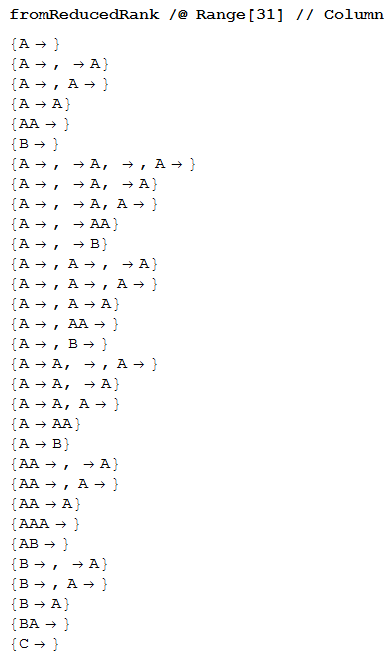
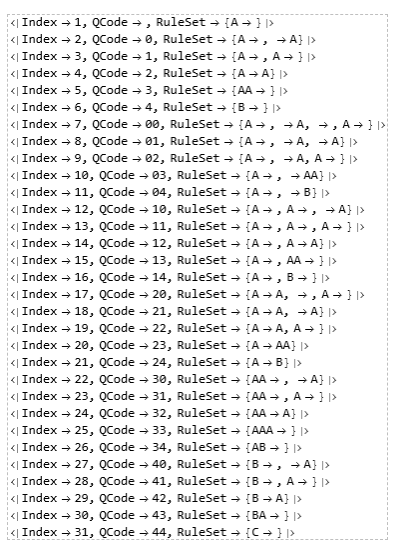
Edited Stuff

diff --git a/pages/FAQs/SSSenum/index.html b/pages/FAQs/SSSenum/index.html
@@ -1,9 +1,11 @@
 <h1>FAQ: SSS enumeration</h1>
-<h2>Origional Sessie Enumeration</h2>
+<h2>Original Sessie Enumeration</h2>
 <p>The first attempt to enumerate sessies was published <a href=http://www.mathematica-journal.com/2011/05/indexing-strings-and-rulesets/ >here</a> This has now been replaced by enumerations allowing better predictions based on simpler mathematical relationships. </p>
-<p>Since then we have simplified and generalized the enumeration algorithm (the subject of a paper by Caviness, Case, Morrow & Kratzke)(2020).  A new fully general algorithm based on base-5 operation codes was used in the code everywhere for several years. </p>
+<h2>Updated Sessie Enumeration</h2>
+<p>Since then we have simplified and generalized the enumeration algorithm (the subject of a paper by <a href=https://www.complex-systems.com/abstracts/v29_i04_a04>Caviness, Case, Morrow & Kratzke</a>)(2020).  A new fully general algorithm based on base-5 operation codes was used in the code everywhere for several years. </p>
 <p>For example, $fromGeneralizedRank[n]$ gives the n-th ruleset in the generalized quinary enumeration.  The first 62 rulesets are listed below.  If we define the weight of a ruleset as the sum of the individual letters, with A=1, B=2, C=3, …, it is clear that in this list, weight 1 rulesets (containing only 1 letter, an A) all appear before weight 2 rulesets (containing either 2 As or 1 B), and weight 2 rulesets before those of weight 3, etc. </p>
-<p>$fromGeneralizedRankShowSteps /@ Range[62]$ //Column (* display steps in creating rulesets *) </p>
+<!-- <p>$fromGeneralizedRankShowSteps /@ Range[62]$ //Column (* display steps in creating rulesets *) </p> -->
+<p>Note that the first digit is binary, all additional digits are quinary (base-5):</p>
 <img src="/pages/FAQs/SSSenum/Pictures/e1.png" alt="Example 1">
 <p>Within any given weight, advancing through the enumeration tends to compact the weight into fewer characters, moving it gradually towards the left.  So the most spread out ruleset of weight 3, {"A"->"", ""->"A",""->"","A"->""} is the first of this weight in the list, {"A"->"",""->"B"} appears further down, and {"C"->""} is the last of this weight, with the entire weight compacted to the left.</p>
 <p>Note:  The "most spread out" rulesets have exactly 2 empty strings between single "A" strings, since we want to include the possibility of deletion rules (where the replacement string is "") and insertion rules (where the search string is ""), and the possibility that an insertion might follow right after a deletion, thus putting 2 empty strings in sequence.  E.g., {"A"->"",""->"B"}.  But we will never need more than 2 consecutive empty strings, and this algorithm also produces ""->"" rules.  More on that problem below. </p>
@@ -30,7 +32,7 @@
         <td>(* if solo identity rules are treated separately *)</td>
     </tr>
     <tr>
-        <td>$TestForInitialSubstringRule$</td>
+        <td>$TestForNonSoloInitialSubstringRule$</td>
         <td>(* Ex/ {"A"->"BAB", …}  If 1st rule matches, it will never fail again. *)</td>
     </tr>
     <tr>
@@ -53,17 +55,19 @@
         <th>Test Description</th>
     </tr>
     <tr>
-        <td>$ShorteningRuleSetQ$</td>
+        <td>$TestForShorteningRule$</td>
         <td>* at least one rule shortens the state string, and none lengthen it, so this will eventually die out *)</td>
     </tr>
     <tr>
-        <td>$UnbalancedRuleSetQ$</td>
+        <td>$TestForUnbalancedRuleSet$</td>
         <td>(* some letter appears on only one side of the rules, so that letter is either created or destroyed, but not both: that letter is not needed for the main pattern of the sessie *)</td>
     </tr>
 </table>
+<p>$TestForAll$ checks all of these, in optimum order to allow longest possible long jumps. </p>
 <p>Camille continued Christen's effort to identify the long jump target ruleset directly based on the quinary (base-5) index of the problem ruleset.  The plan was to speed up the tests, as well as to increase understanding of the enumeration.  This effort will now be transferred to the new base-3 algorithm (see below). </p>
 <h2>Reduced Quinary Substitution System enumeration: </h2>
 <p>Since all rulesets containing an insertion rule (""->something) will be discarded by TestForConflictingRules, if the insertion rule is not the last rule, the only way an insertion rule can be the first one is if the ruleset has only the one rule.  A solo insertion rule can never delete cells, and so cannot produce a network.  Therefore it is logical to eliminate all initial insertion rule cases, and this can easily be done by an adjustment to the enumeration itself, basically dropping the first (binary) digit of the Generalized Quinary enumeration.  Here are the first 31 rulesets generated by the reduced SS enumeration are shown here: </p>
+<p>$FromReducedRankIndex /@ Range[31]$</p>
 <img src="/pages/FAQs/SSSenum/Pictures/e2.png" alt="Example 2">
 <p>The RSS enumeration contains the same rulesets as the GSS enumeration in the same order, with initial insertion rules removed.  The encoding is also the same, except for the removal of the initial bit that distinguished between rulesets beginning with an empty string and those not.  The decision was made to use the RSS enumeration by default, since initial insertion rules have simple, well-understood behavior. </p>
 <h2> New Trinary Enumeration</h2>

diff --git a/pages/FAQs/SSSdimension/index.html b/pages/FAQs/SSSdimension/index.html
@@ -6,7 +6,7 @@
     <li>Start with a list of event/node indices, either from the SSS or from the network.  These should be special in some way. </li>
     <li>Create a table of nth-differences from the list.  If row k is constant, the dimension of the original data is k. </li>
 </ol>
-<p>Original data, which we can immediately identify as a list of squares:  1 4 9 16 25 36 49 </p>
+<p>Original arbitrary data, which we can immediately identify as a list of squares:  1 4 9 16 25 36 49 </p>
 <p>Tables of differences</p>
 <p>1  4  9  16  25  36  49 </p>
 <p style="white-space: pre;"> 3   5  7   9   11   13 </p>
